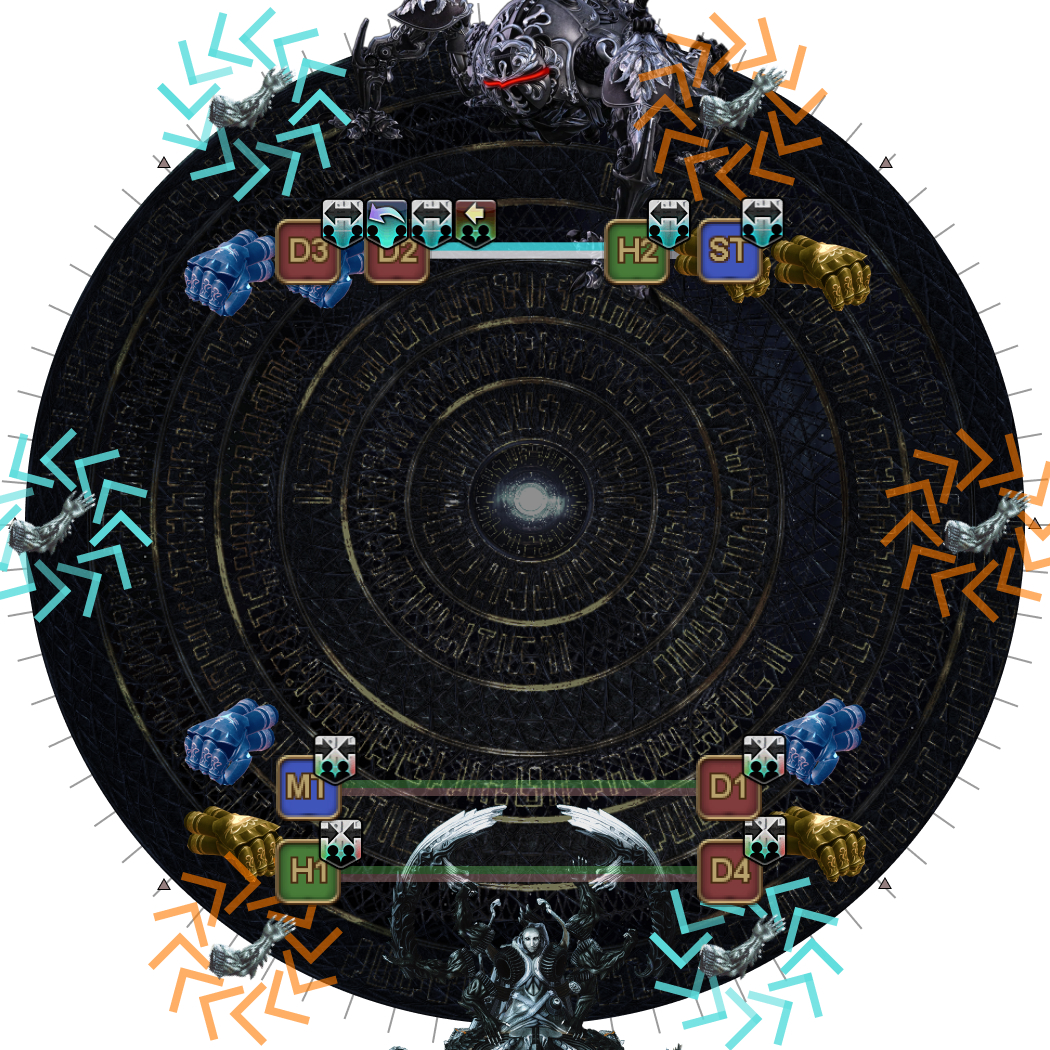
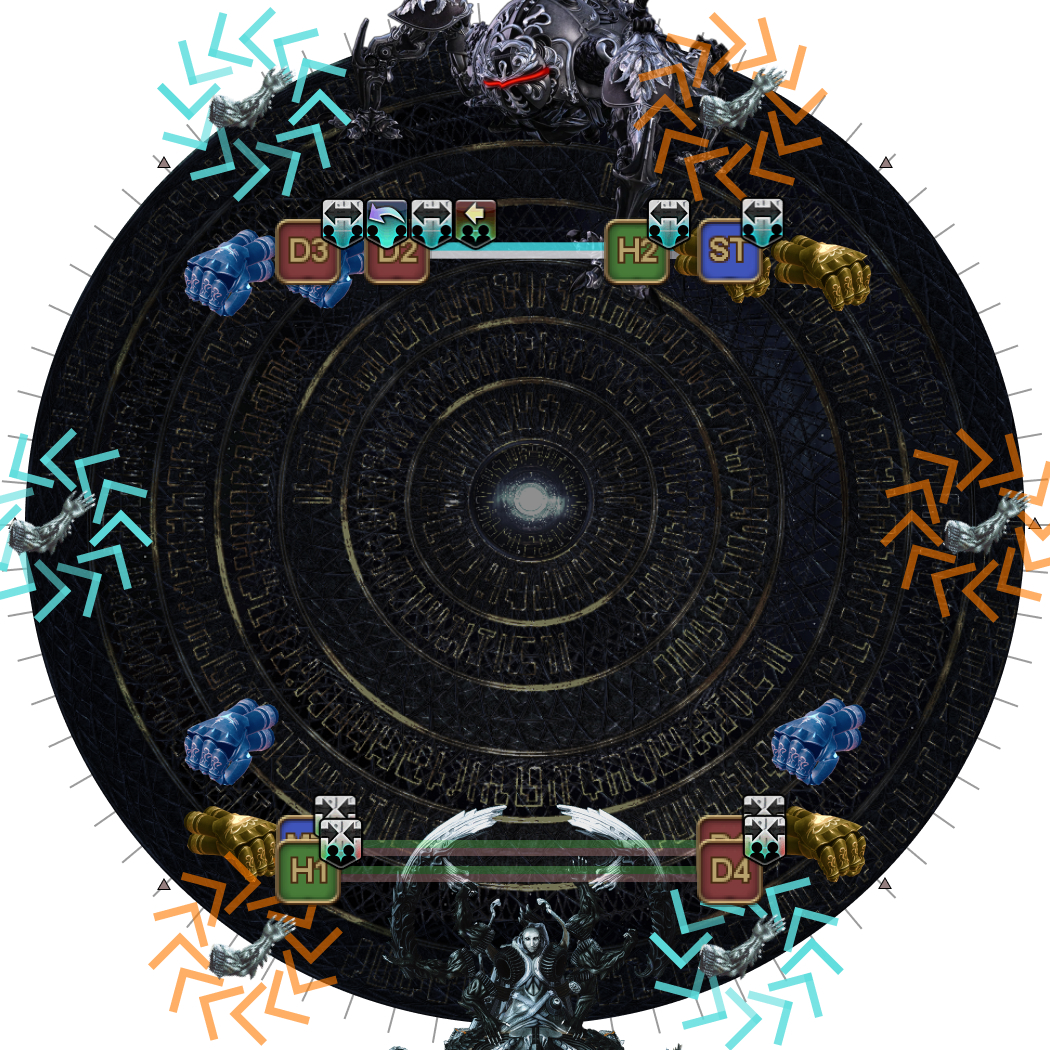
Update timing on when green tethers can stack in Awk Delta. Be more explicit who moves for long blue.

Changed region(s): [[0.2438, 0.701, 0.7619, 0.8229]]

diff --git a/ultimates/top/en/05a_run_dynamis_delta.md b/ultimates/top/en/05a_run_dynamis_delta.md
@@ -96,7 +96,10 @@ Tethers appear, splitting the party up into two groups:
   </tr>
   <tr>
     <td><p><b>2.</b> Blue and yellow fists appear above each player.</p>
-    <p>Identify whether you and the player standing next to you from the other tether have the different-coloured fists.</p><p>If both fists are the same colour, then the inner tether pair swaps positions.</p><p><em>In this example, since H2 and D3 share the same-coloured fists, H2 and D2 will swap sides. There is no swap needed for the bottom group.</em></p></td>
+    <p>Identify whether you and the player standing next to you from the other tether have the different-coloured fists.</p>
+    <p>If both fists are the same colour, then the <b>inner</b> tether pair swaps positions.</p>
+    <p>The <b>green</b> tethered players can stack together in their fist pairs (inner tethers swapping if needed).</p>
+    <p><em>In this example, since H2 and D3 share the same-coloured fists, H2 and D2 will swap sides. There is no swap needed for the green tethers, so the inner pair (MT, D1) goes to stack on their fist partners (H1 and D4 respectively).</em></p></td>
     <td><img src="../images/05_run_dynamis/run_dynamis_delta_02.jpg"></td>
   </tr>
   <tr>
@@ -104,7 +107,7 @@ Tethers appear, splitting the party up into two groups:
     <td><img src="../images/05_run_dynamis/run_dynamis_delta_03.jpg"></td>
   </tr>
   <tr>
-    <td><p><b>4.</b> The tethers activate. This will break the outer blue-tether.</p><p>Stack with your fist partner.</p></td>
+    <td><p><b>4.</b> The tethers activate. This will break the outer blue-tether.</p><p>The outer blue-tethered players move in to stack with the inner blue-tethered players.</p></td>
     <td><img src="../images/05_run_dynamis/run_dynamis_delta_04.jpg"></td>
   </tr>
   <tr>
